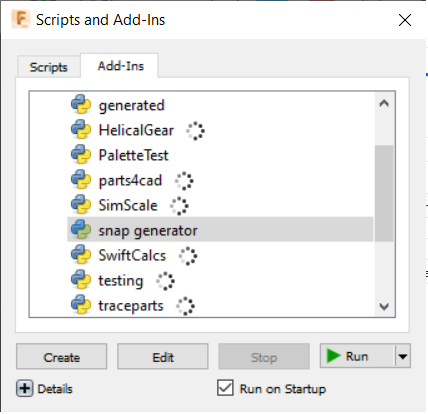
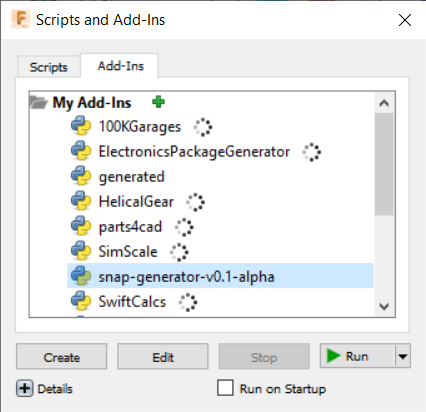
Updated README.md

diff --git a/README.md b/README.md
@@ -4,6 +4,22 @@ Snap Generator for Fusion 360
 This is an addin for Autodesk Fusion 360 which generates snap-geometries from 
 user input.
 
+
+Installation
+----
+Download the newest release, then paste it into the add-ins folder that belongs
+to Fusion 360. On Windows, it's located at 
+%appdata%\Autodesk\Autodesk Fusion 360\API\AddIns
+
+On Mac, it's at
+~/Library/Application Support/Autodesk/Autodesk Fusion 360/API/AddIns
+
+After that, while in the DESIGN workspace, go to the TOOLS tab and click
+ADD-INS. In the window that pops up, click the Add-Ins tab, find the name
+in the list, and click _run_.
+
+![Add-ins window](docs/images/addins_list_snap_generator.png)
+
 Usage
 ----
 There are two snap features currently available (with a few more planned).
